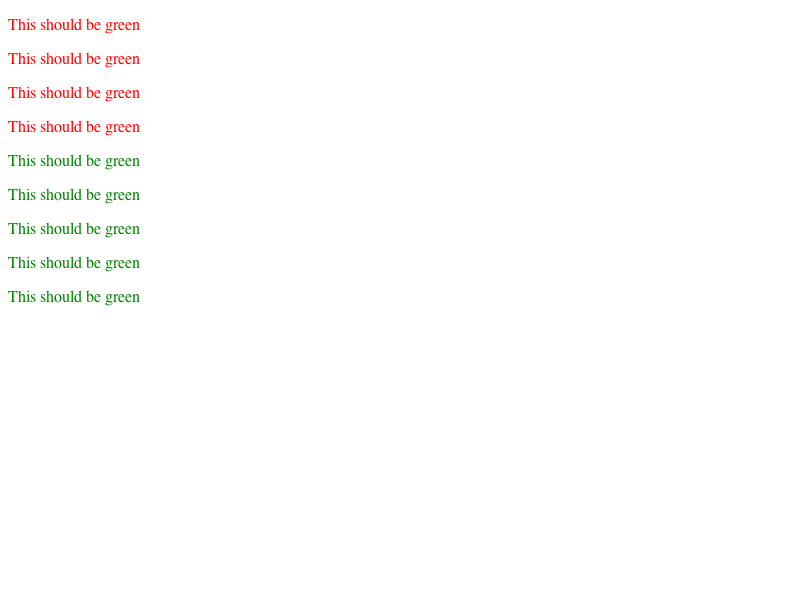
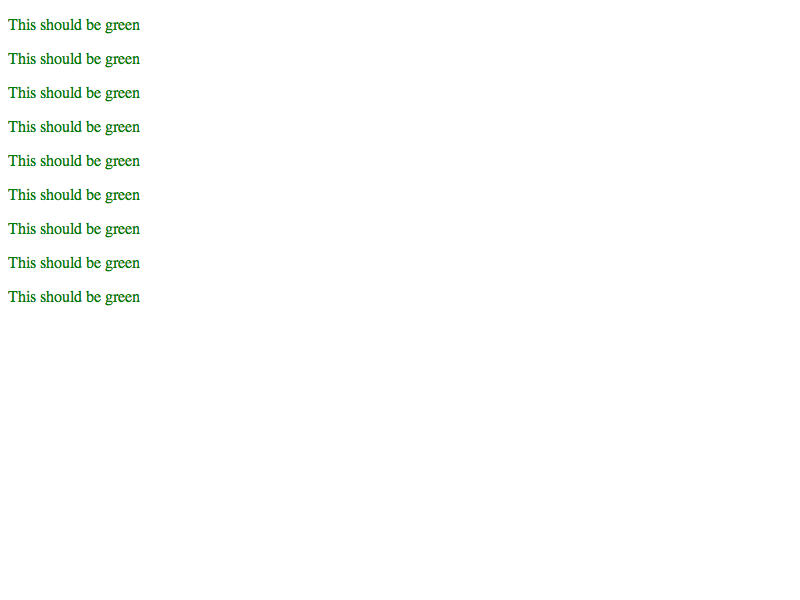
WebCore:
2008-04-29  Anatoli Papirovski  <apapirovski@mac.com>

        Reviewed by Darin Adler.

        Fix for https://bugs.webkit.org/show_bug.cgi?id=18355
        Fixed RGB and RGBA parsing to ignore the declaration when the value is not
        "either three integer values or three percentage values."

        * css/CSSParser.cpp:
        (WebCore::CSSParser::parseColorParameters):

LayoutTests:

2008-04-29  Anatoli Papirovski  <apapirovski@mac.com>

        Reviewed by Darin Adler.

        Fix for https://bugs.webkit.org/show_bug.cgi?id=18355
        Updated the results of the layout test for "RGB color syntax error handling".

        * platform/mac/css2.1/t040306-syntax-01-f-expected.checksum:
        * platform/mac/css2.1/t040306-syntax-01-f-expected.png:
        * platform/mac/css2.1/t040306-syntax-01-f-expected.txt:

git-svn-id: https://svn.webkit.org/repository/webkit/trunk@32689 268f45cc-cd09-0410-ab3c-d52691b4dbfc

diff --git a/WebCore/css/CSSParser.cpp b/WebCore/css/CSSParser.cpp
@@ -2951,8 +2951,13 @@ bool CSSParser::parseColorParameters(Value* value, int* colorArray, bool parseAl
 {
     ValueList* args = value->function->args;
     Value* v = args->current();
-    // Get the first value
-    if (!validUnit(v, FInteger | FPercent, true))
+    Units unitType = FUnknown;
+    // Get the first value and its type
+    if (validUnit(v, FInteger, true))
+        unitType = FInteger;
+    else if (validUnit(v, FPercent, true))
+        unitType = FPercent;
+    else
         return false;
     colorArray[0] = static_cast<int>(v->fValue * (v->unit == CSSPrimitiveValue::CSS_PERCENTAGE ? 256.0 / 100.0 : 1.0));
     for (int i = 1; i < 3; i++) {
@@ -2960,7 +2965,7 @@ bool CSSParser::parseColorParameters(Value* value, int* colorArray, bool parseAl
         if (v->unit != Value::Operator && v->iValue != ',')
             return false;
         v = args->next();
-        if (!validUnit(v, FInteger | FPercent, true))
+        if (!validUnit(v, unitType, true))
             return false;
         colorArray[i] = static_cast<int>(v->fValue * (v->unit == CSSPrimitiveValue::CSS_PERCENTAGE ? 256.0 / 100.0 : 1.0));
     }
